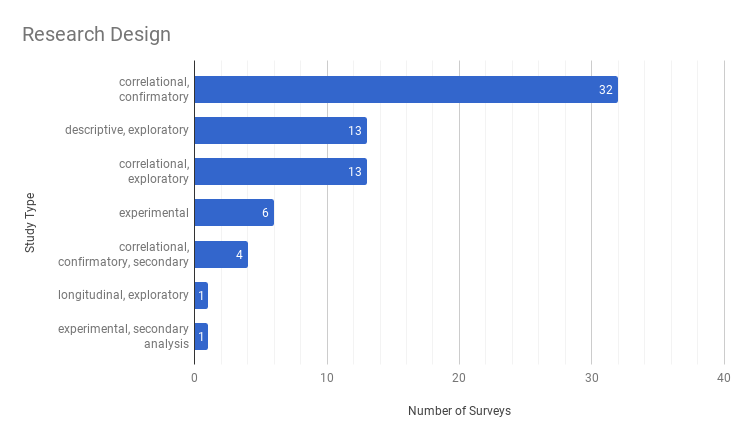
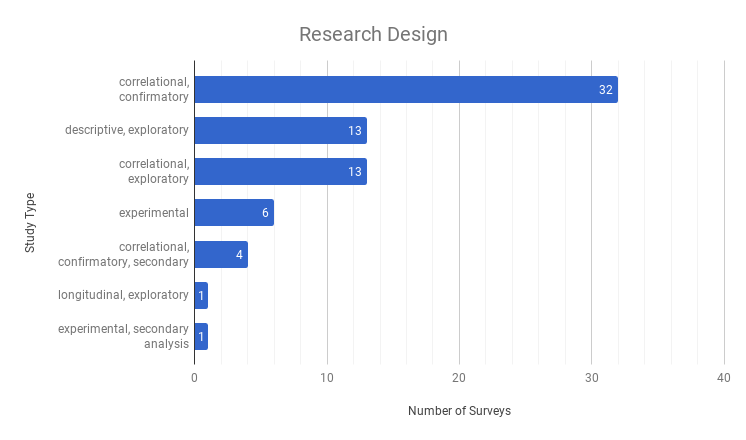
fixed chart and added more dates

Changed region(s): [[0.0308, 0.0591, 0.2466, 0.1182], [0.4008, 0.0591, 0.6166, 0.1182]]

diff --git a/js/search.js b/js/search.js
@@ -1,6 +1,6 @@
-var network, fulltext;
+var network, fulltext, textByYear;
 var keywords = [];
-var chart;
+var chart, years;
 
 d3.queue()
 .defer(d3.json, "data/network.json")
@@ -9,39 +9,26 @@ d3.queue()
 
 function show_viz(error, net, text) {
 	network = net;
+
 	fulltext = text;
 	fulltext.forEach(function(d) {
 		d.text = d.text.split(". ");
 	})
 
-	var years = ['x'];
-	for (var i = 1999; i < 2019; i++) {
-		years.push(String(i));
-	}
+	textByYear = d3.nest()
+  	.key(function(d) { 
+  		var a = d.paper.split(" ")
+  		return parseInt(a[a.length - 1]); 
+  	})
+  	.rollup(function(v) { 
+  		return v;
+  	})
+  	.object(text);
 
-	chart = c3.generate({
-		bindto: "#timeseries",
-	    data: {
-	        x: 'x',
-	        xFormat: '%Y',
-	        columns: [
-	            years,
-	            ['Count of Papers', 1,0,0,1,1,1,3,1,4,1,4,7,7,10,5,10,7,8,0,1]
-	        ]
-	    },
-	    axis: {
-	        x: {
-	            type: 'timeseries',
-	            tick: {
-	                format: '%Y',
-	            }
-	        },
-	        y: {
-	        	min: 0,
-	        	padding: { bottom: 0 }
-	        }
-	    }
-	});
+	years = ['x'];
+	for (var i = 1999; i < 2019; i++) {
+		years.push("01-01-"+String(i));
+	}
 }
 
 d3.select("#search").on("change", function() {
@@ -55,17 +42,37 @@ d3.select("#search").on("change", function() {
 		return 0;
 	});
 
-	var data = [keyword];
-	for (var i = 1999; i < 2019; i++) {
-		var r = results.filter(function(d) { return d.year == i});
-		if (!(r)) {
-			data.push(0);
-		} else {
-			data.push(d3.sum(r, function(d) { return d.count }));
-		}
-	}
+	var data = find_normalized(keyword);
 
-	chart.load({columns: [data] });
+	if (!(chart)) {
+		chart = c3.generate({
+			bindto: "#timeseries",
+		    data: {
+		        x: 'x',
+		        xFormat: '%d-%m-%Y',
+		        columns: [
+		            years,
+		            data
+		        ]
+		    },
+		    axis: {
+		        x: {
+		            type: 'timeseries',
+		            tick: {
+		                format: '%Y',
+		            }
+		        },
+		        y: {
+		        	label: "% of Total Words",
+		        	min: 0,
+		        	padding: { bottom: 0 }
+		        }
+		    }
+		});
+
+	} else {
+		chart.load({columns: [data] });
+	}
 
 	var tag = d3.select("#keywords")
 		.append("div");
@@ -112,3 +119,24 @@ function find(keyword) {
 	return results;
 }
 
+function find_normalized(keyword) {
+	results = [keyword];
+
+	for (var i = 1999; i < 2019; i++) {
+		if (textByYear[i]) {
+			var keyword_count = 0;
+			var total_wordcount = 0;
+			textByYear[i].forEach(function(f) {
+				var txt = f.text.join(" ").toLowerCase();
+				var re = new RegExp(keyword.toLowerCase(), 'g');
+				if (txt.match(re)) keyword_count += txt.match(re).length * keyword.split(" ").length;
+				total_wordcount += txt.split(" ").length;
+			});
+			results.push(parseFloat(keyword_count)/total_wordcount);
+		} else {
+			results.push(0);
+		}
+	}
+
+	return results;
+}

diff --git a/search.html b/search.html
@@ -20,7 +20,7 @@
 		<a href="search.html">Keyword Search</a>
 	</div>
 	<h1>Keyword Search</h1>
-	<p class='desc'>See how frequently terms appear in the dataset. The chart shows the count of the keyword across all papers.</p>
+	<p class='desc'>See how frequently terms appear in the dataset. The chart shows the percentage of total words across all papers that the keyword makes up for each year.</p>
 	<div id="search-input">
 		<p>Enter a keyword or phrase</p>
 		<input type="text" id="search" placeholder='contextual integrity, sns, etc.'>
